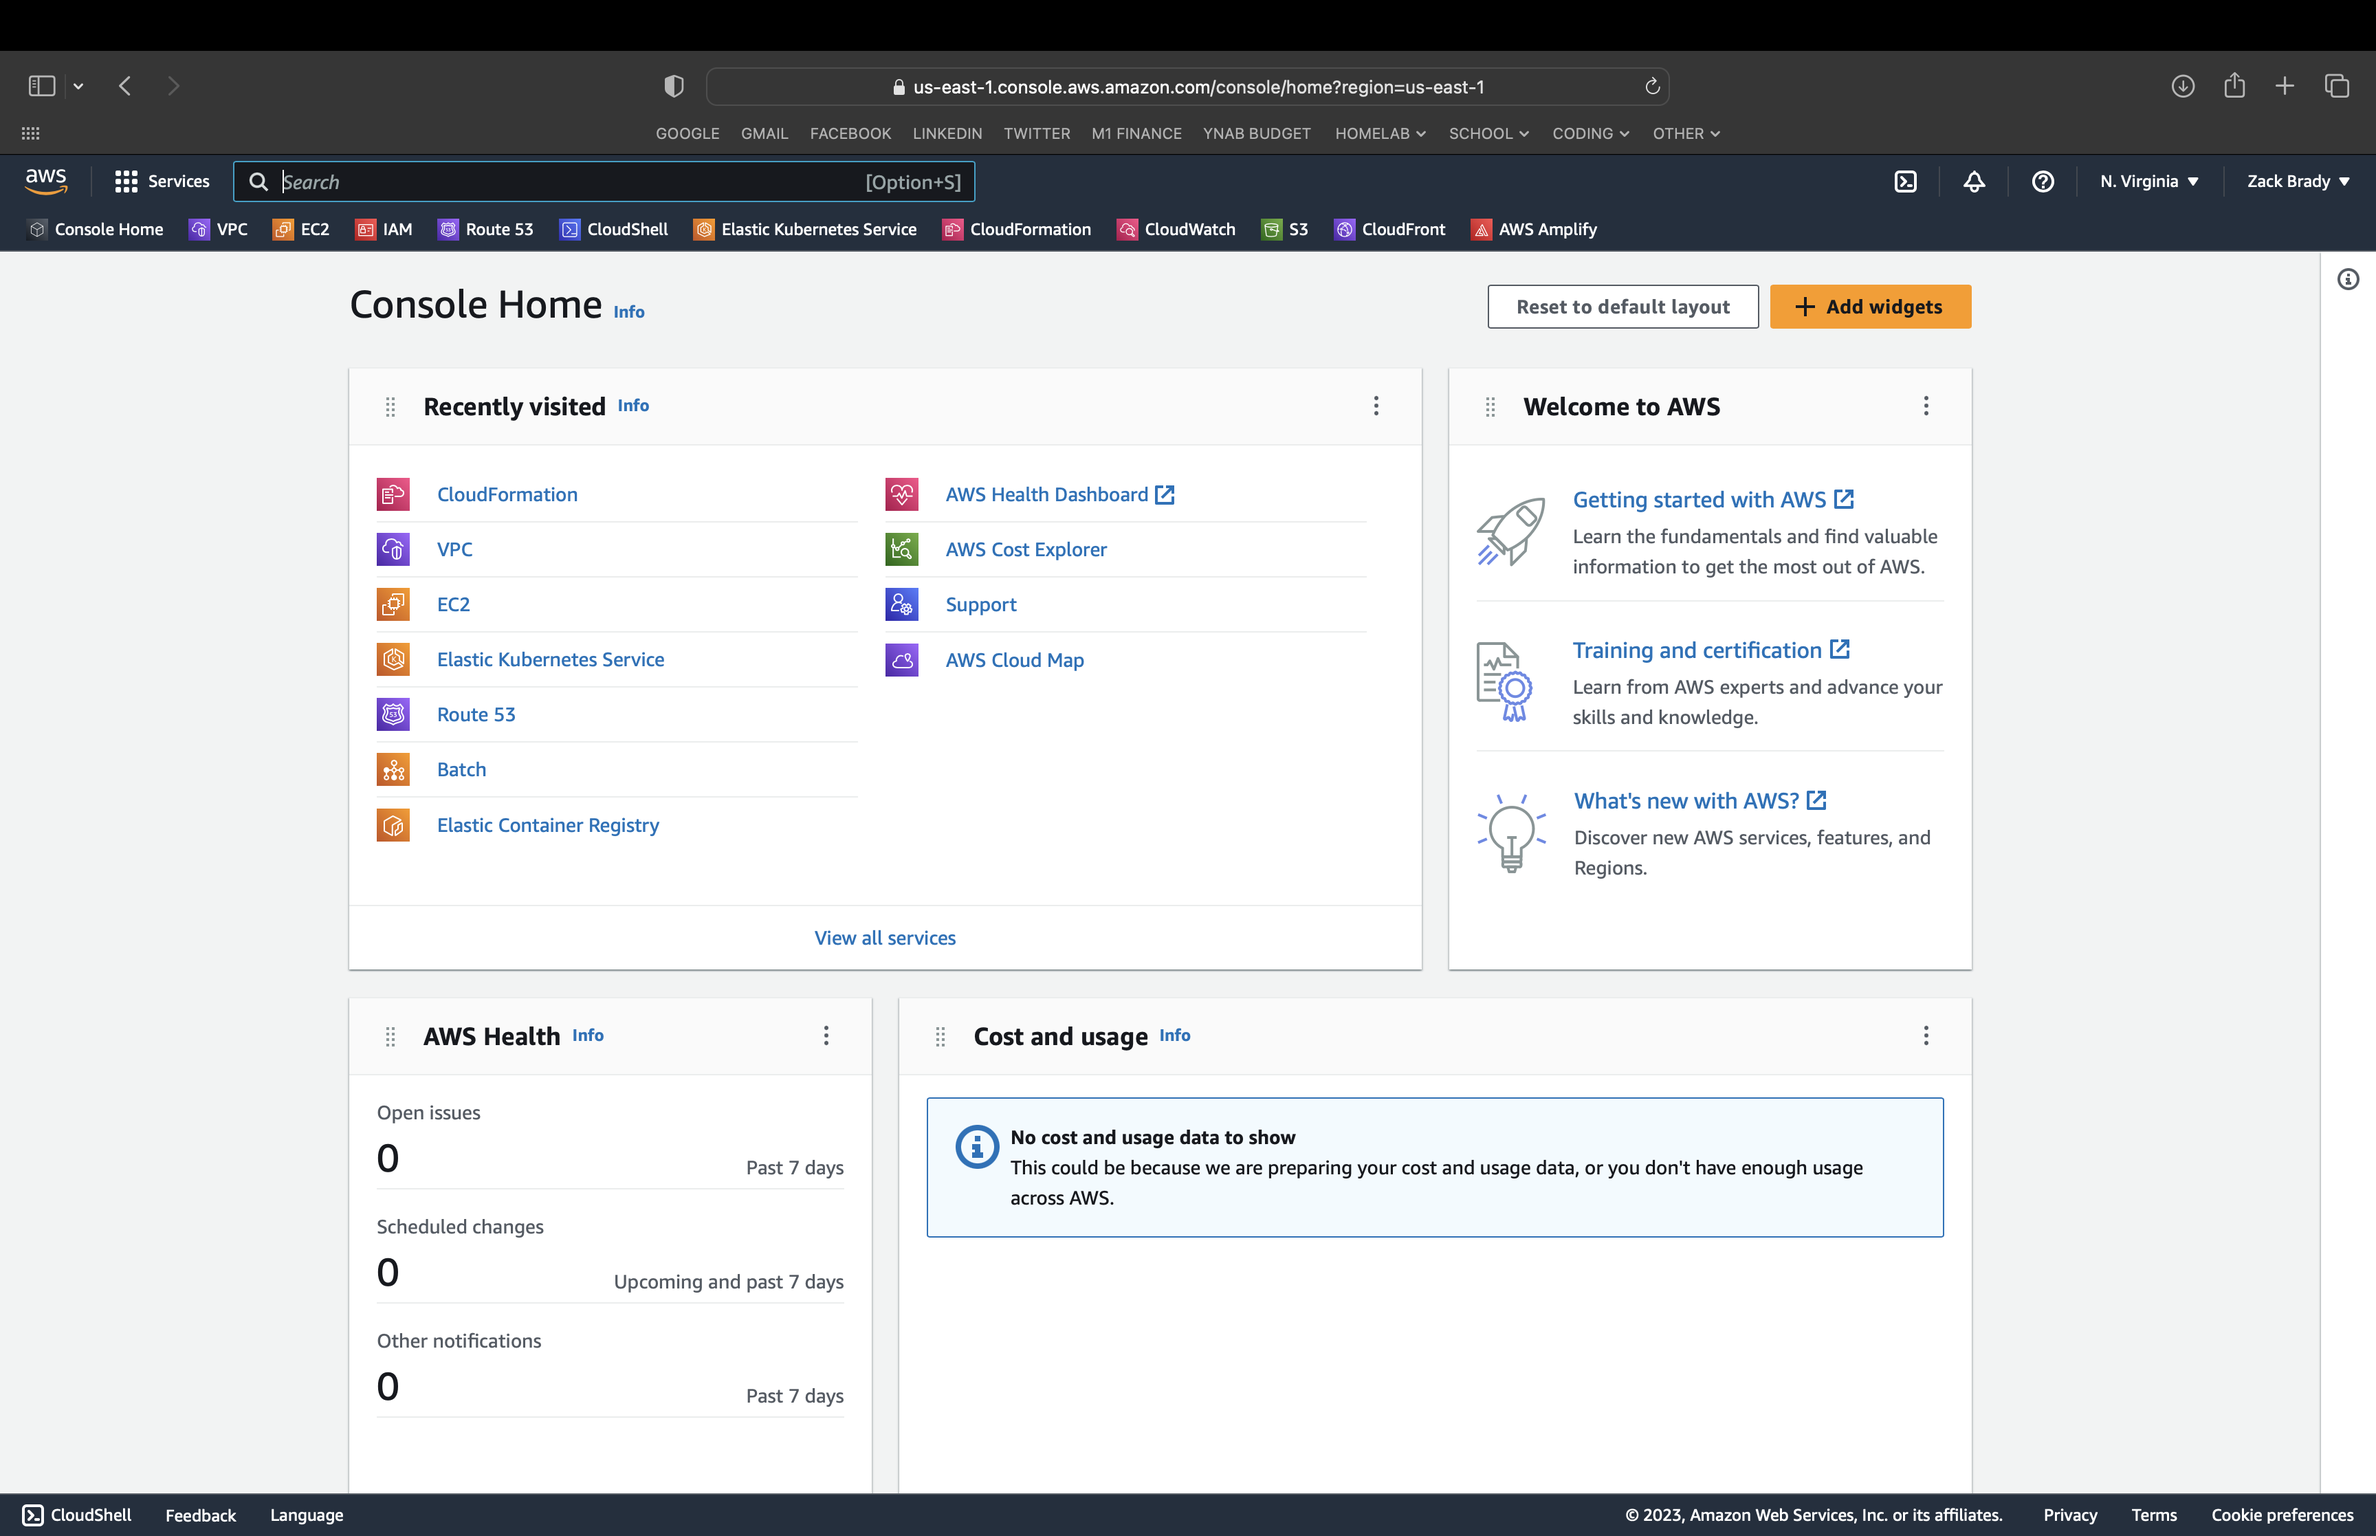
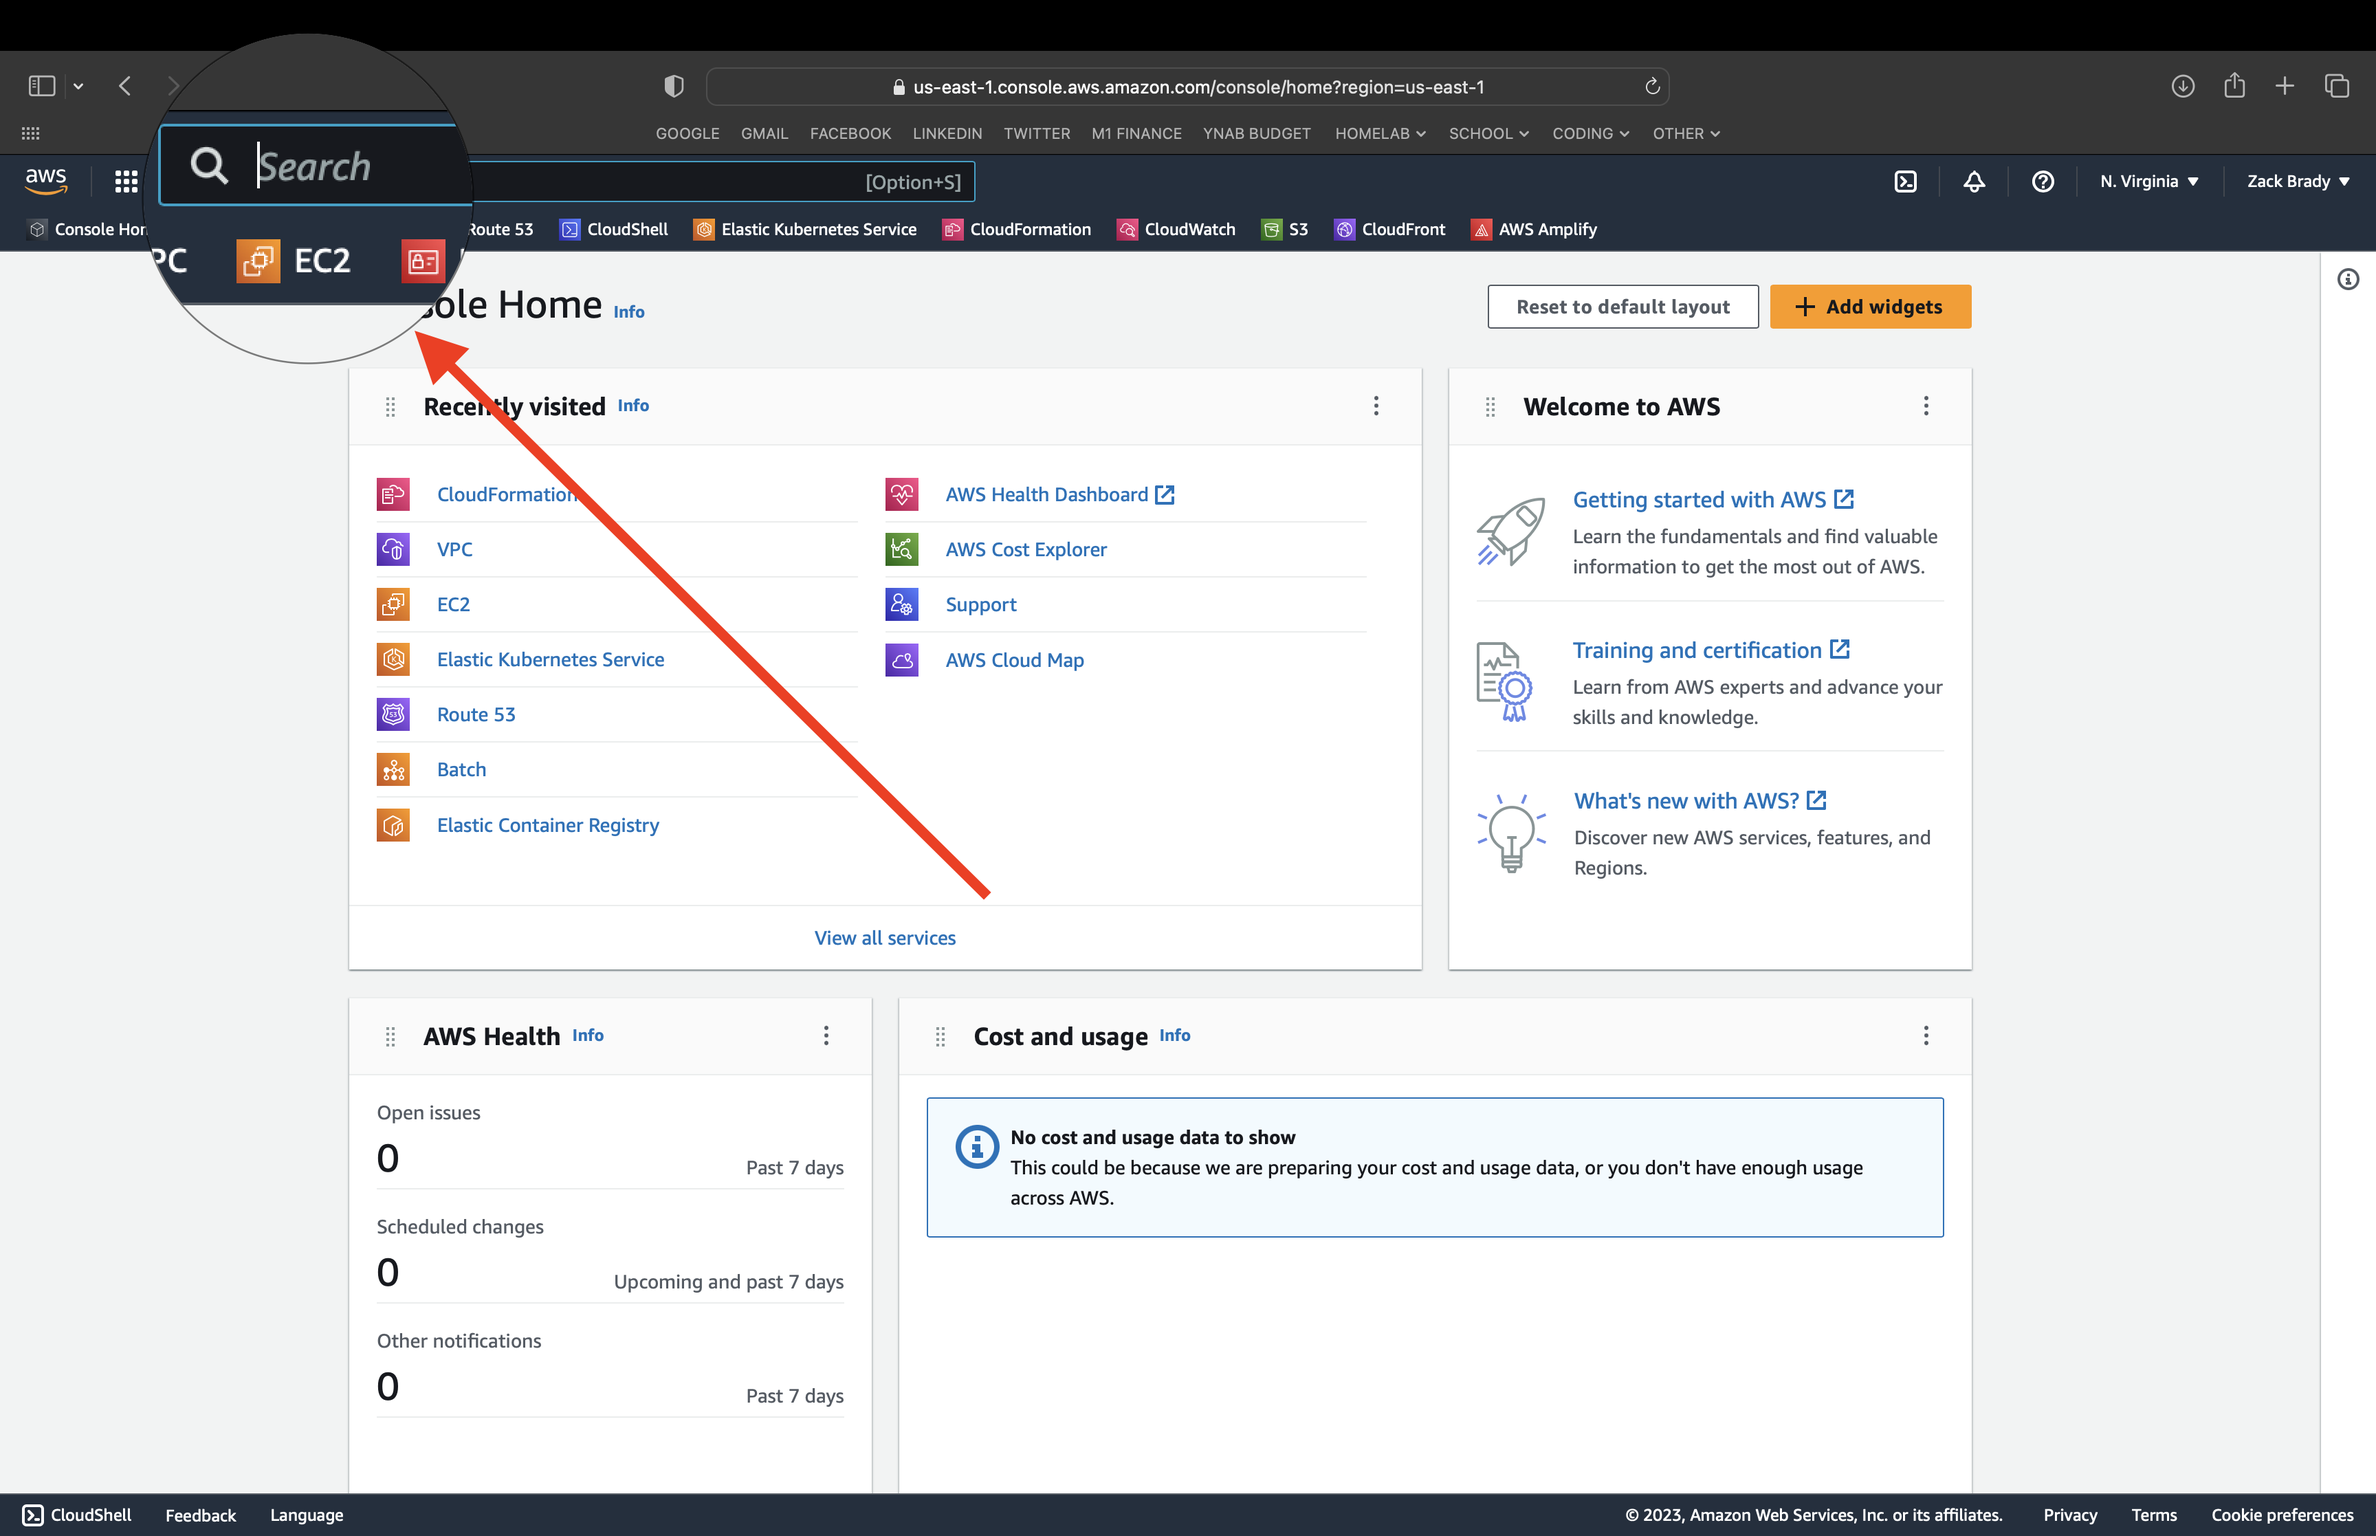
screenshot changes and fix to unnoticed instruction change

diff --git a/content/20-exploring-the-cluster/21-exploring-the-cluster/index.en.md b/content/20-exploring-the-cluster/21-exploring-the-cluster/index.en.md
@@ -22,15 +22,17 @@ Let's start by accessing the AWS Console.
 At the top of the page, select the search bar and search for **`"CloudFormation"`** and click on it.
 
 ![aws-console-home](/static/images/content/21-aws-home.png)
+![aws-console-home](/static/images/content/21-search-cfn.png)
 
 
 ### Step 2:
 
-In the **`CloudFormation Console`**, click on the **`Stack`** named **`mgmt`**.
+In the **`CloudFormation Console`**, click on the **`Stack`** named **`rke2-eks-cluster`**.
 
-Inside of the **`mgmt`** stack, click on the **`Outputs`** tab. You should see the **`RancherURL`**, click the link in a new tab to bring up the Rancher Multi-Cluster Manager.
+Inside of the **`rke2-eks-cluster`** stack, click on the **`Outputs`** tab. You should see the **`RancherURL`**, click the link in a new tab to bring up the Rancher Multi-Cluster Manager.
 
 ![aws-console-cf-mgmt](/static/images/content/21-aws-cf-mgmt.png)
+![aws-console-cf-mgmt](/static/images/content/21-aws-cf-mgmt-detail.png)
 
 
 ## Rancher Multi-Cluster Manager
@@ -42,6 +44,7 @@ Once the Rancher Multi-Cluster Manager opens, we will need to complete the boots
 First let's enter the bootstrap password (that was set during installation) of **`"Pa22word"`** and **`Log in with Local User`**.
 
 ![rancher-bootstrapping-password](/static/images/content/21-rancher-bootstrap-pw.png)
+![rancher-bootstrapping-password](/static/images/content/21-rancher-bootstrap-pw-detail.png)
 
 
 ### Step 2:
@@ -52,6 +55,7 @@ Now let's verify the few items on the setup page and click **`Continue`**!
 * **`[X] By checking the box, you accept the End User License Agreement & Terms & Conditions`**
 
 ![rancher-bootstrapping-setup](/static/images/content/21-rancher-bootstrap-setup.png)
+![rancher-bootstrapping-setup](/static/images/content/21-rancher-bootstrap-setup-detail.png)
 
 
 ### Step 3:
@@ -61,6 +65,7 @@ Welcome to the Rancher Multi-Cluster Manager!! Here's your starting point in the
 Under **`Clusters`**, you should see a cluster named **`local`**. This cluster is your **`management cluster`**. As we move through the workshop, we will be creating and importing additional clusters into the Rancher Manager, known as **`downstream cluster(s)`**.
 
 ![rancher-manager-home](/static/images/content/21-rancher-home.png)
+![rancher-manager-home-detail](/static/images/content/21-rancher-home-detail.png)
 
 Let's go ahead and click on the **`local`** cluster and start to explore it.
 
